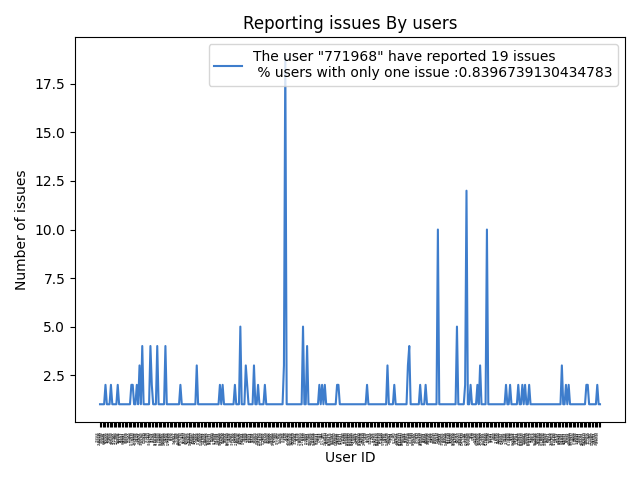
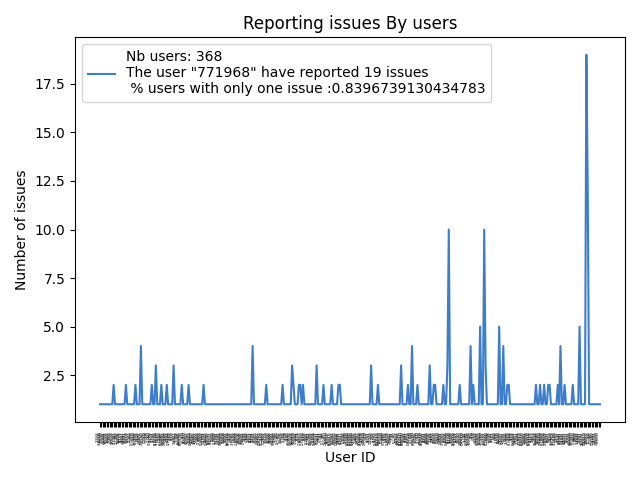
Updated: graphs labels

Changed region(s): [[0.125, 0.0938, 0.9688, 0.8438]]

diff --git a/dataTreator/statTreatments.py b/dataTreator/statTreatments.py
@@ -132,7 +132,7 @@ gradientbars(LabelBar)
 figLabel.tight_layout()
 pyplot.savefig('../dataPlot/OccurencesByLabels.png')
 figUsers, axUsers = pyplot.subplots()
-UserPlot = axUsers.plot([j for j in set_user], [occurences_users[i] for i in (set_user)], color='#3E7DCC', label = 'The user "'+ str(id_user)+'" have reported '+str(max)+ ' issues \n % users with only one issue :'+str(nb_one))
+UserPlot = axUsers.plot([j for j in set_user], [occurences_users[i] for i in (set_user)], color='#3E7DCC', label = 'Nb users: '+str(len(set_user))+'\nThe user "'+ str(id_user)+'" have reported '+str(max)+ ' issues \n % users with only one issue :'+str(nb_one))
 axUsers.set_ylabel('Number of issues')
 axUsers.set_xlabel('User ID')
 axUsers.set_title('Reporting issues By users')
